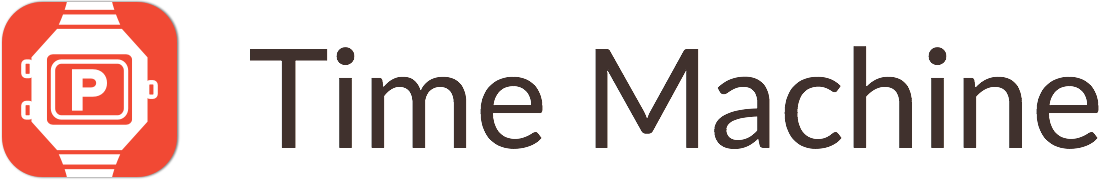
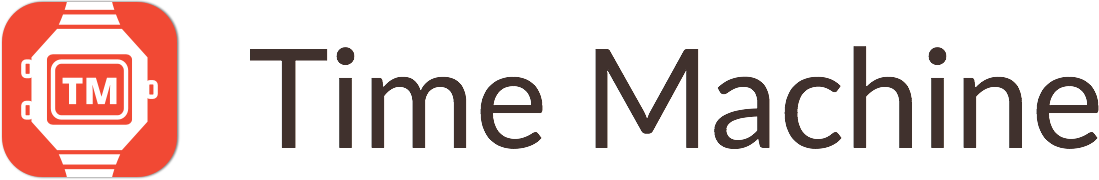
Header image and README updated

Changed region(s): [[0.0309, 0.3611, 0.1237, 0.6111]]

diff --git a/README.md b/README.md
@@ -7,8 +7,8 @@ Time Machine brings you back to the future of Product Hunt so you can re-discove
 ## Links
 
 * [App Store](https://itunes.apple.com/us/app/product-hunt-time-machine/id956311358)
-* [Website](http://thomasmeagher.com/ProductHuntTimeMachine/)
-* [Product Hunt](http://www.producthunt.com/posts/product-hunt-timemachine)
+* [Website](http://thomasmeagher.com/TimeMachine/)
+* [Product Hunt](http://www.producthunt.com/tech/time-machine)
 
 ## Props
 Some of the awesome products I used to build Time Machine:
